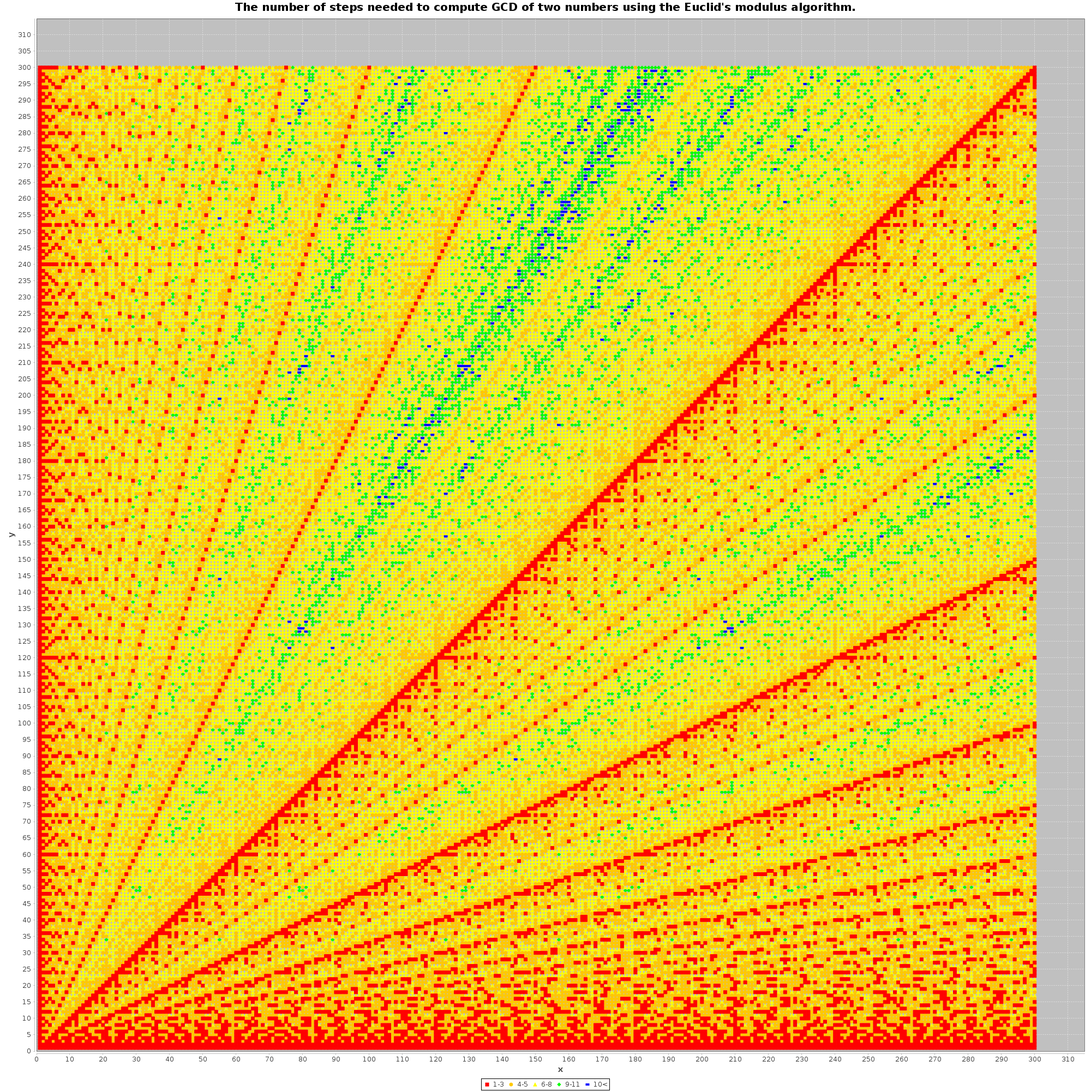
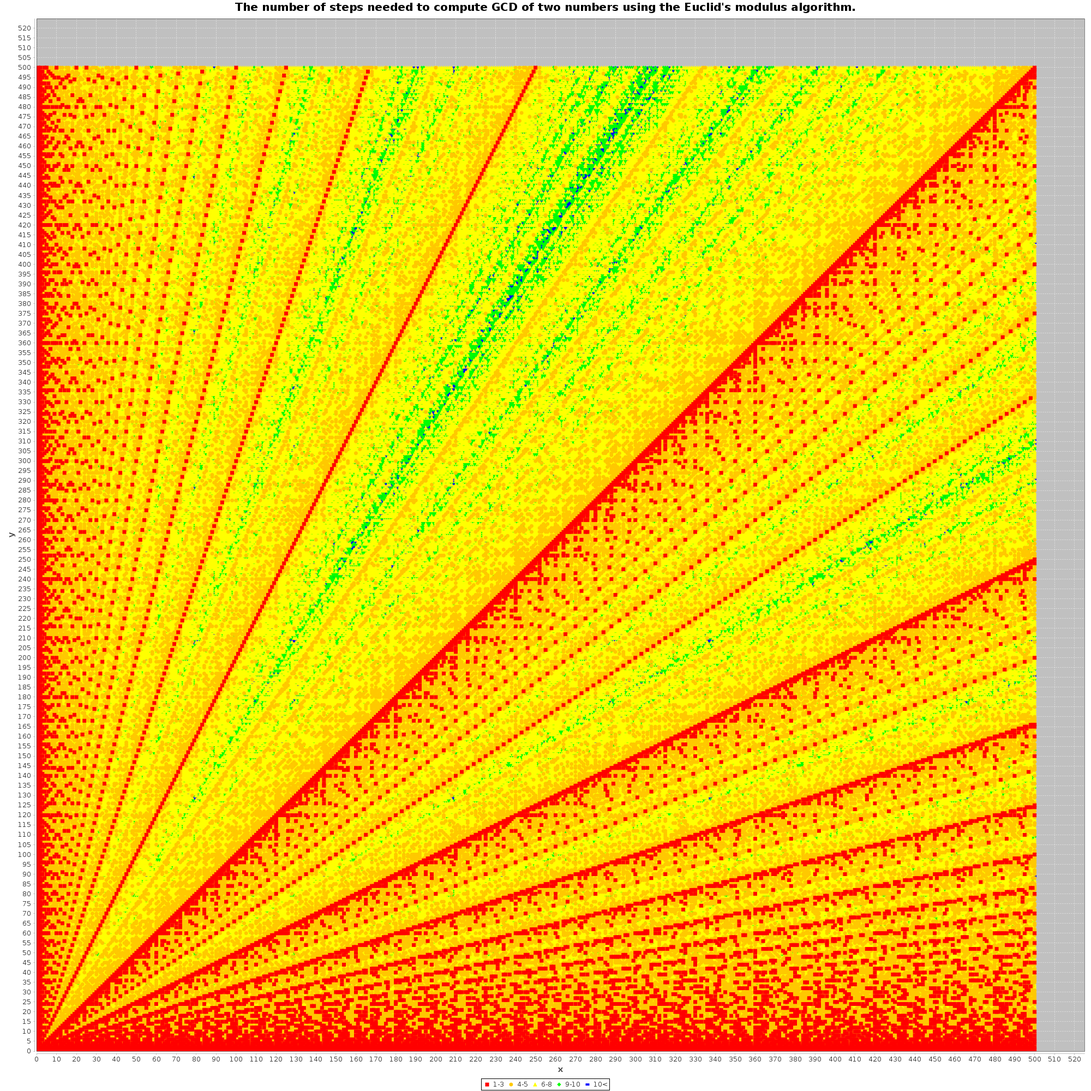
Add Euclidean subtraction alg.

diff --git a/src/1D.kt b/src/1D.kt
@@ -8,18 +8,19 @@ import java.awt.Paint
  * Created by mseleng on 2/23/17.
  */
 fun main(args: Array<String>) {
-    euclidMod(300, 300)
+    euclidMod(500, 500)
+    euclidSub(500, 500)
 }
 
-fun euclidMod(width: Int, height: Int) {
+fun euclidMod(maxX: Int, maxY: Int) {
     val result = mutableMapOf(
             NumberOfSteps.ONE_TO_THREE to XYSeries("1-3"),
             NumberOfSteps.FOUR_TO_FIVE to XYSeries("4-5"),
             NumberOfSteps.SIX_TO_EIGHT to XYSeries("6-8"),
             NumberOfSteps.NINE_TO_TEN to XYSeries("9-10"),
             NumberOfSteps.MORE_THAN_TEN to XYSeries("10<"))
-    for (x in 1..width) {
-        for (y in 1..height) {
+    for (x in 1..maxX) {
+        for (y in 1..maxY) {
             val (_, steps) = euclidMod_recursive(x, y)
             result[getNumberOfStepsEnum(steps)]?.add(x, y)
         }
@@ -38,8 +39,33 @@ private fun euclidMod_recursive(x: Int, y: Int): EuclidSolution {
     }
 }
 
-private fun euclidSub_recursive(x: Int, y: Int): EuclidSolution {
+fun euclidSub(maxX: Int, maxY: Int) {
+    val result = mutableMapOf(
+            NumberOfSteps.ONE_TO_THREE to XYSeries("1-3"),
+            NumberOfSteps.FOUR_TO_FIVE to XYSeries("4-5"),
+            NumberOfSteps.SIX_TO_EIGHT to XYSeries("6-8"),
+            NumberOfSteps.NINE_TO_TEN to XYSeries("9-10"),
+            NumberOfSteps.MORE_THAN_TEN to XYSeries("10<"))
+    for (x in 1..maxX) {
+        for (y in 1..maxY) {
+            val (_, steps) = euclidSub_recursive(x, y)
+            result[getNumberOfStepsEnum(steps)]?.add(x, y)
+        }
+    }
+    Chart("The number of steps needed to compute GCD of two numbers using the Euclid's subtraction algorithm.",
+            result.mapKeys { it.key.getPaint() }, true)
+            .writeToPNG(fileWithName(1, "euclid[subtraction].png"), 2000, 2000)
+}
 
+private fun euclidSub_recursive(x: Int, y: Int): EuclidSolution {
+    val bigger = maxOf(x, y)
+    val smaller = minOf(x, y)
+    if (bigger == smaller) {
+        return EuclidSolution(smaller, 1)
+    } else {
+        val (gcd, steps) = euclidSub_recursive(bigger - smaller, smaller)
+        return EuclidSolution(gcd, steps + 1)
+    }
 }
 
 private data class EuclidSolution(val gcd: Int, val steps: Int)
